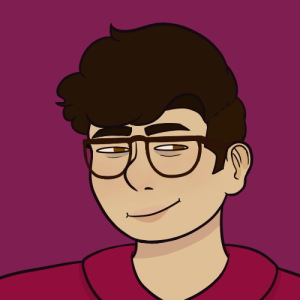
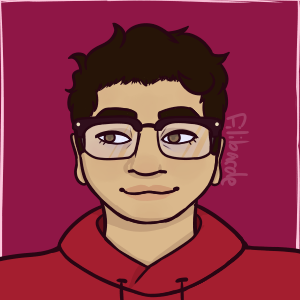
ci update; madeleine added , lenox fixes

diff --git a/articles/char/m/madeleine.html b/articles/char/m/madeleine.html
@@ -4,10 +4,10 @@
 <link rel="stylesheet" href="https://stackpath.bootstrapcdn.com/bootstrap/4.3.1/css/bootstrap.min.css" integrity="sha384-ggOyR0iXCbMQv3Xipma34MD+dH/1fQ784/j6cY/iJTQUOhcWr7x9JvoRxT2MZw1T" crossorigin="anonymous">
 <meta charset="utf-8">
 <meta name="viewport" content="width=device-width, initial-scale=1, shrink-to-fit=no">
-<meta name="description" content=" Rosalita is a sweet girl who can’t stand doing math.">
+<meta name="description" content="Madeleine is CRO at fehlz">
 <meta name="author" content="Felhzverse">
 <meta name="robots" content="none">
-<title>Char Index- Rosalita
+<title>Char Index- Madeleine
 </title>
 <link rel="stylesheet" type="text/css" href="../../../css/main.css" >
 <link rel="stylesheet" type="text/css" href="../../../css/main/char.css" >
@@ -55,72 +55,73 @@
 </ul>
 <div id="backdrop">
 <div class="row justify-content-center">
-<center><h1>Rosalita  Solis</h1></center>	
+<center><h1>Madeleine Kouassi</h1></center>	
 </div>
 <div class="row">
 <div class="col">
 <center>
 <table id="primary" class="squish">
 <tr><th id="qB1" onClick="qB(1)">Full Name</th></tr>	
-<tr><td id="aB1">Rosalita  Solis</td></tr>
+<tr><td id="aB1">Madeleine Kouassi</td></tr>
 <tr><th id="qB2" onClick="qB(2)">Birthday</th></tr>	
-<tr><td id="aB2">NULL</td></tr>
+<tr><td id="aB2">October 12, 1996/Mietnyom 5, 1996 (24 years old)</td></tr>
 <tr><th id="qB3" onClick="qB(3)">Gender</th></tr>	
-<tr><td id="aB3">Woman (she/her)</td></tr>
+<tr><td id="aB3">Woman (She/Her)</td></tr>
 <tr><th id="qB4" onClick="qB(4)">Species</th></tr>	
-<tr><td id="aB4"><a href="../../../world/si/feratran.html">Feratran</a></td></tr>
+<tr><td id="aB4"><a href="../../../world/si/human.html">Human</a></td></tr>
 <tr><th id="qB5" onClick="qB(5)">Race</th></tr>	
-<tr><td id="aB5">Hispanic (Chilean)</td></tr>
+<tr><td id="aB5">Black (Ivorian)</td></tr>
 <tr><th id="qB6" onClick="qB(6)">Height</th></tr>	
-<tr><td id="aB6">5’1”(154.94 cm)</td></tr>
+<tr><td id="aB6">5'8”</td></tr>
 <tr><th id="qB7" onClick="qB(7)">Location</th></tr>	
-<tr><td id="aB7">Santiago, Chile</td></tr>
+<tr><td id="aB7">Abidjan, Côte d'Ivoire</td></tr>
 </table>
 </center>	
 </div>
 <div class="col justify-content-center">
-<img  id="fullbody" alt="fullbody" class="fullbody" src="../../img/char/fb/rosalita.png">
+<img  id="fullbody" alt="fullbody" class="fullbody" src="../../img/char/fb/">
 </div>
 <div class="col">
 <table id="secondary" class="squish">
 <tr><th id="qB8" onClick="qB(8)">Zodiac</th></tr>	
-<tr><td id="aB8">Aquarius</td></tr>
+<tr><td id="aB8">Libra</td></tr>
 <tr><th id="qB9" onClick="qB(9)">Orientation/Sexuality</th></tr>	
-<tr><td id="aB9">NULL</td></tr>
+<tr><td id="aB9">Lesbian</td></tr>
 <tr><th id="qB10" onClick="qB(10)">Language</th></tr>	
-<tr><td id="aB10">Spanish and English</td></tr>
+<tr><td id="aB10">English, Ivorian French</td></tr>
 <tr><th id="qB11" onClick="qB(11)">Favorite Color</th></tr>	
-<tr><td id="aB11">Neon blue</td></tr>
+<tr><td id="aB11">NULL</td></tr>
 <tr><th id="qB12" onClick="qB(12)">Favorite Food</th></tr>	
-<tr><td id="aB12">Spaghetti</td></tr>
+<tr><td id="aB12">Atteké</td></tr>
 <tr><th id="qB13" onClick="qB(13)">Religion</th></tr>	
-<tr><td id="aB13">Christian</td></tr>
+<tr><td id="aB13">N/A</td></tr>
 <tr><th id="qB14" onClick="qB(14)">Occupation</th></tr>	
-<tr><td id="aB14">CFO of Felhzverse </td></tr>
+<tr><td id="aB14">Summer camp counselor; otherwise full-time student (Med school)</td></tr>
 </table>	
 </div>
 </div>
 <div class="row justify-content-center">
-<p id="gen" class="cinfo">&nbsp;Rosalita is a sweet girl who can’t stand doing math </p>	
+<p id="gen" class="cinfo">&nbsp;Madeleine is CRO at Felhzverse;</p>	
 </div>
 <div class="row">
 <div class="col">
 <center><h2 id="person">Personality</h2></center>
-<p>&nbsp;Anxious and overworked but she's a big romantic personality type. She loves to have people around but she feels lonely all the time, so she tries her best to make friends.</p>
+<p>&nbsp; Inquisitive, thoughtful, and reserved. Often avoids social interaction with people who aren't close friends because she has nothing to talk about.</p>
 </div>
 <div class="col">
 <center><h2 id="appearance">Appearance</h2></center>
-<p>&nbsp;She has very curly black hair that she constantly changes. She has brown skin and brown eyes.</p>
+<p>&nbsp;Dark-skinned(mahogany), pear-shaped in terms of body type, brown eyes, and dark hair although it is usually worn beneath a wig for convenience sake.
+</p>
 </div>	
 </div>
 <div class="row">
 <div class="col">
 <center><h2 id="story">Story</h2></center>
-<p>&nbsp;She went to school to become an accountant and then became and artist. She lives alone and really doesn't do anything interesting until Lenox approaches her with project Felhz.</p>
+<p>&nbsp; Before joining Project FELHZ, Madeleine was studying full-time to be a dermatologist. After  being reached out to by Lenox, Madeleine became interested in helping out with the project. </p>
 </div>
 <div class="col">
 <center><h2 id="wod">Way of Dress</h2></center>
-<p>&nbsp;Bagging clothes but they’re stylish.</p>
+<p>&nbsp;Madeleine looks like she shops at Brandy Melville. Pastel-y, muted colors, and the occasional plaid shirt. Must have nice socks.</p>
 </div>	
 </div>
 <div class="row justify-content-center">
@@ -129,28 +130,30 @@
 <tr><td>
 <ul>
 <li>
-Children
+Pastel or muted colors
 </li>	
 <li>
- Talking with friends 	
+Technology	
 </li>
 <li>
-Creating art
+Cute dresses
 </li>	
 <li>
- Dancing	
+Dinosaurs	
 </li>
 </ul></td>
 <td>
 <ul>
 <li>
- Math </li>	
+Birthday cake</li>	
 <li>
-Speaking in front of people	
-</li>	
+Mustard yellow
+</li>
 <li>
-Being smart
-</li>	
+Mustard in general </li>	
+<li>
+Food with egregious amounts of artificial food coloring
+</li>
 </ul>	
 </td></tr>	
 <tr></tr>	
@@ -158,22 +161,10 @@ Being smart
 </div>
 <div class="row">
 <div class="col">
-<center><h2 id="relationships">Relationships</h2></center><!-- get funky with this and try a list or use images or something-->
-<span id="Ditz" class="relatContainer"><a href="./ditz.html"><img alt="ditz" class="relationship" src="../../../icons/char/ditzIcon.png"></a>
-<span class="tooltiptext"><center><b>Ditz Soñoliento</b></center>
-Coworker and friend.
-</span></span>
-<span id="Laktdi" class="relatContainer"><a href="./laktdi.html"><img alt="laktdi" class="relationship" src="../../../icons/char/laktdiIcon.png"></a>
-<span class="tooltiptext"><center><b>Laktdi Navarro</b></center>
-Coworker and friend.
-</span></span>
-<span id="Lenox" class="relatContainer"><a href="lenox.html"><img alt="lenox" class="relationship" src="../../../icons/char/lenoxIcon.png"></a>
-<span class="tooltiptext"><center><b>Lenox Mantoqu</b></center>
-Coworker and friend.
-</span></span>
-<span id="Madeleine" class="relatContainer"><a href="./madeleine.html"><img alt="madeleine" class="relationship" src="../../../icons/char/madeleineIcon.png"></a>
-<span class="tooltiptext"><center><b>Madeleine Kouassi</b></center>
-Coworker and friend.
+<center><h2 id="relationships">Relationships</h2></center>
+<span id="X" class="relatContainer"><a href="./x.html"><img alt="x" class="relationship" src="../../../icons/char/xIcon.png"></a>
+<span class="tooltiptext"><center><b>Character name</b></center>
+Their relationship
 </span></span>
 </div>
 <div class="col">
@@ -181,9 +172,15 @@ Coworker and friend.
 <ul>
 <li>
 <p>
-She can burp the ABCs
+Madeleine consistently has a smoothie of some sort on hand. It's always there.
 </p>
-</li>	
+</li>
+<li>
+<p>
+Itaque earum rerum hic tenetur a sapiente delectus, ut aut reiciendis voluptatibus maiores alias consequatur aut perferendis doloribus asperiores repellat.
+</p>
+</li>
+	
 </ul>
 </div>	
 </div>

diff --git a/articles/char/m/ditz.html b/articles/char/m/ditz.html
@@ -173,6 +173,10 @@ Coworker and friend.
 <span class="tooltiptext"><center><b>Rosalita Solis</b></center>
 Coworker and friend.
 </span></span>
+<span id="Madeleine" class="relatContainer"><a href="./madeleine.html"><img alt="madeleine" class="relationship" src="../../../icons/char/madeleineIcon.png"></a>
+<span class="tooltiptext"><center><b>Madeleine Kouassi</b></center>
+Coworker and friend.
+</span></span>
 </div>
 <div class="col">
 <center><h2 id="trivia">Trivia</h2></center><!-- LIST LIST LIST LIST-->

diff --git a/articles/char/m/laktdi.html b/articles/char/m/laktdi.html
@@ -187,6 +187,10 @@ Coworker and friend.
 <span class="tooltiptext"><center><b>Rosalita Solis</b></center>
 Coworker and friend.
 </span></span>
+<span id="Madeleine" class="relatContainer"><a href="./madeleine.html"><img alt="madeleine" class="relationship" src="../../../icons/char/madeleineIcon.png"></a>
+<span class="tooltiptext"><center><b>Madeleine Kouassi</b></center>
+Coworker and friend.
+</span></span>
 </div>
 <div class="col">
 <center><h2 id="trivia">Trivia</h2></center><!-- LIST LIST LIST LIST-->

diff --git a/articles/char/m/lenox.html b/articles/char/m/lenox.html
@@ -181,6 +181,10 @@ Coworker and friend.
 <span class="tooltiptext"><center><b>Rosalita Solis</b></center>
 Coworker and friend.
 </span></span>
+<span id="Madeleine" class="relatContainer"><a href="./madeleine.html"><img alt="madeleine" class="relationship" src="../../../icons/char/madeleineIcon.png"></a>
+<span class="tooltiptext"><center><b>Madeleine Kouassi</b></center>
+Coworker and friend.
+</span></span>
 </div>
 <div class="col">
 <center><h2 id="trivia">Trivia</h2></center><!-- LIST LIST LIST LIST-->

diff --git a/articles/char/index.html b/articles/char/index.html
@@ -67,6 +67,9 @@
 <a href="./m/ditz.html" id="ditz">
 <img class="cicon" alt="ditz" src="../../icons/char/ditzIcon.png">	
 </a>
+<a href="./m/madeleine.html" id="madeleine">
+<img class="cicon" alt="madeleine" src="../../icons/char/madeleineIcon.png">	
+</a>
 <a href="./m/puck.html" id="puck">
 <img class="cicon" alt="puck" src="../../icons/char/puckIcon.png">	
 </a>
